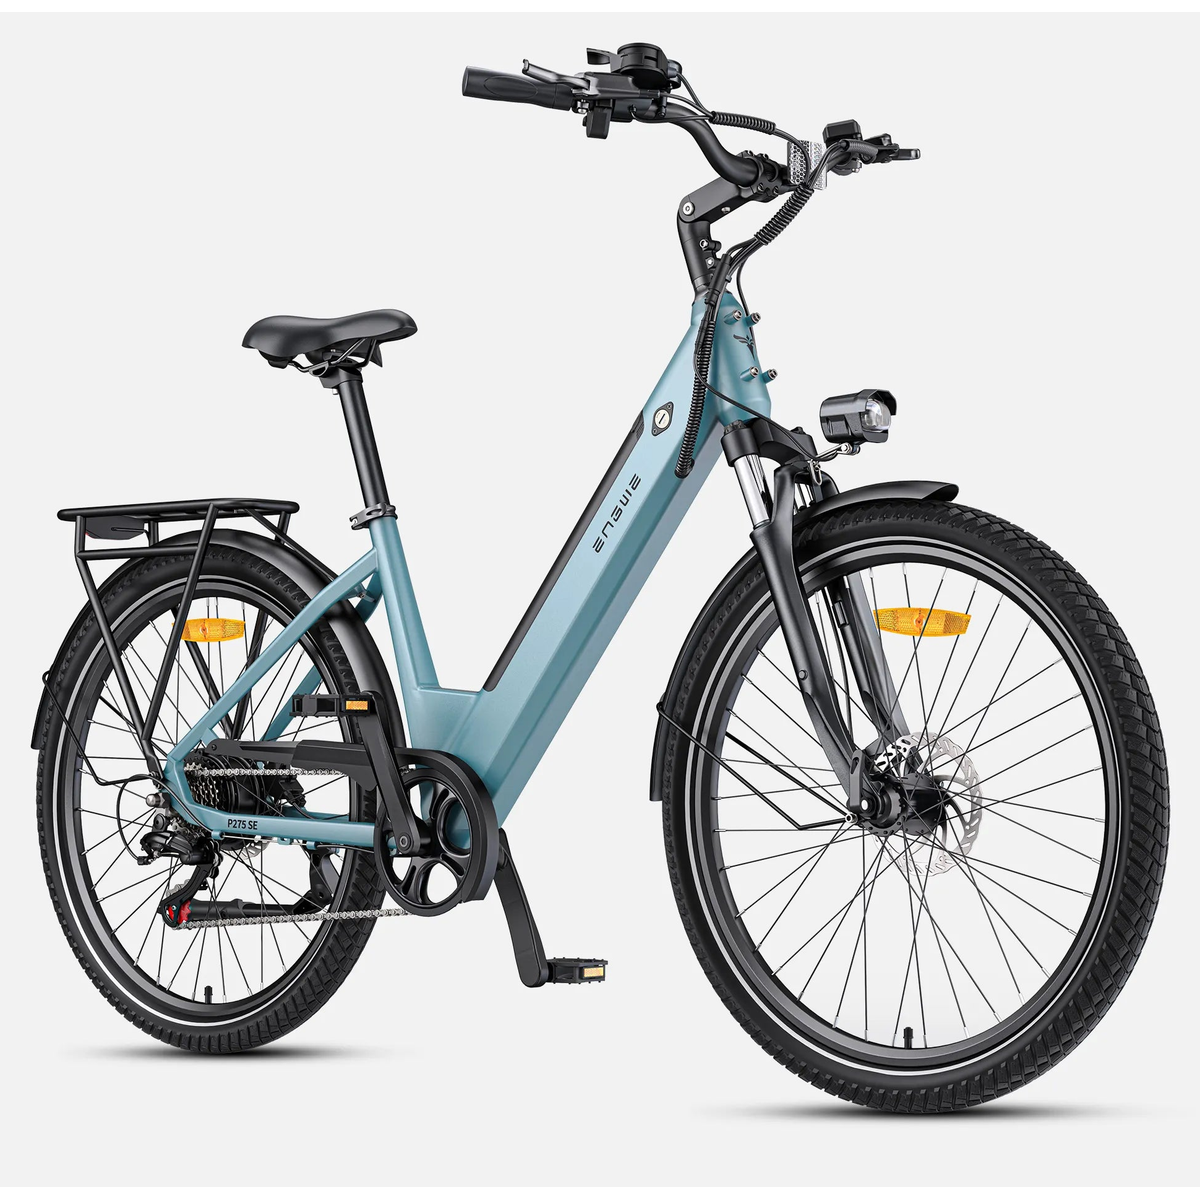
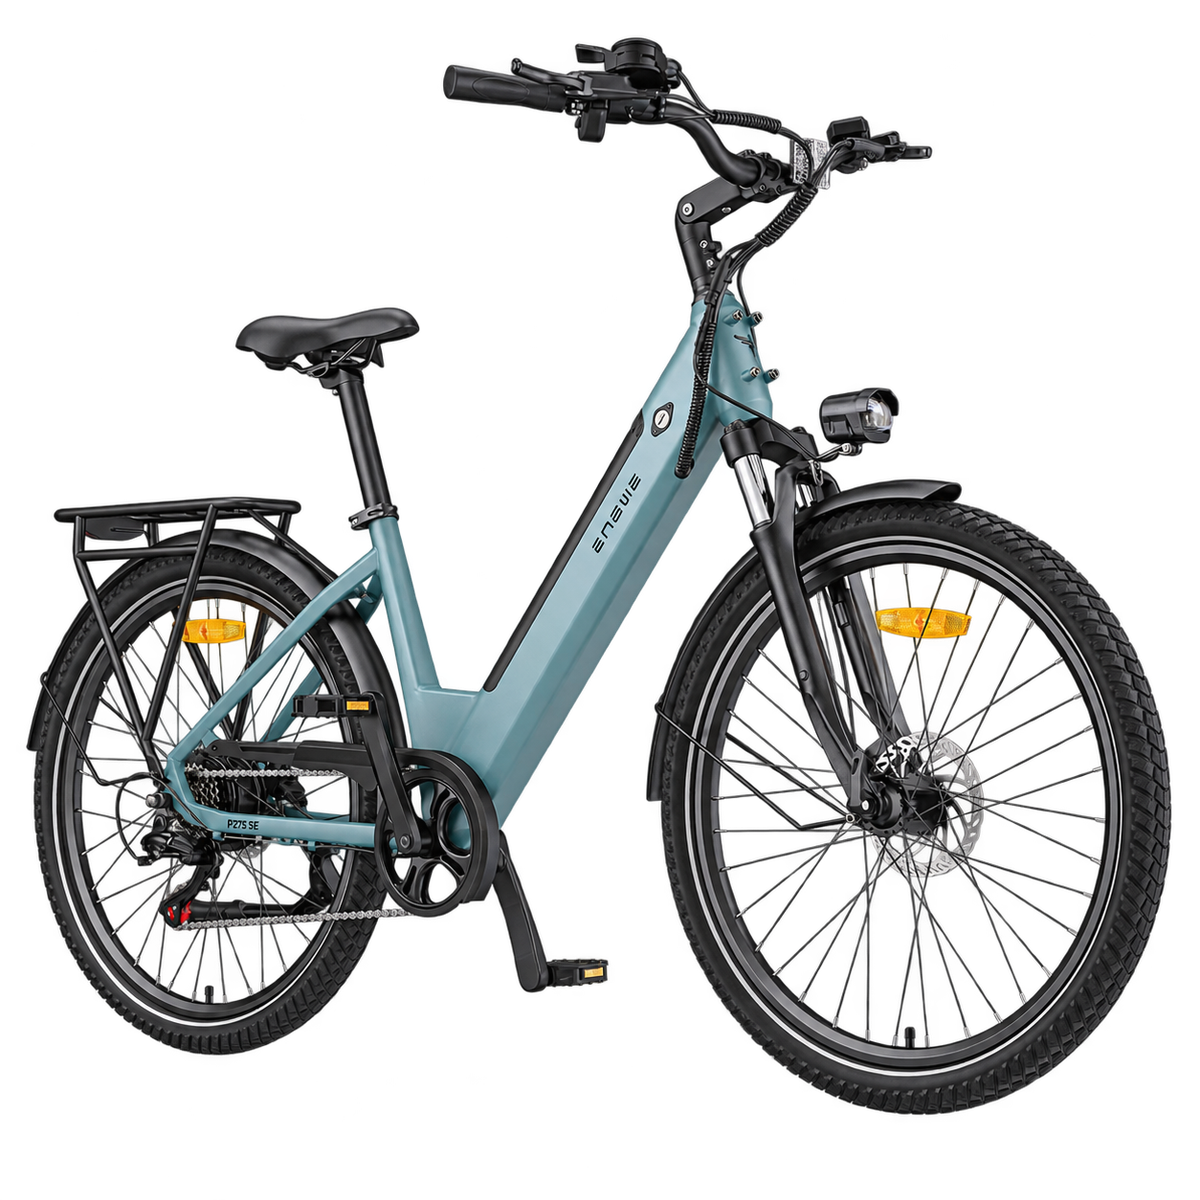
Remove background from ENGWE review image

diff --git a/docs/evidence/engwe-p275-se-electric-bike.md b/docs/evidence/engwe-p275-se-electric-bike.md
@@ -22,7 +22,7 @@ The official product page lists a 250 W motor, 55 Nm torque, torque sensor, remo
 
 Official image: https://cdn.shopify.com/s/files/1/0683/8560/3641/files/P275SE03_220573d7-23f8-489d-ad7d-898d68acb251.jpg?v=1794548754
 
-Retrieved from ENGWE’s official product gallery on November 14, 2026. The Grey variant image was cropped to remove blank white margins, resized to 1200 × 1200 and converted to lossless WebP with Sharp. Product color, details and white background were preserved; no generated edits or retouching were made.
+Retrieved from ENGWE’s official product gallery on November 14, 2026. The official Grey image was edited with image_gen to remove only the white background, preserving the bicycle, color, branding and components. Sharp converted the transparent cutout to a 1200 × 1200 lossless WebP. The full silhouette and alpha edges were inspected before publication.
 
 ## Editorial basis
 
